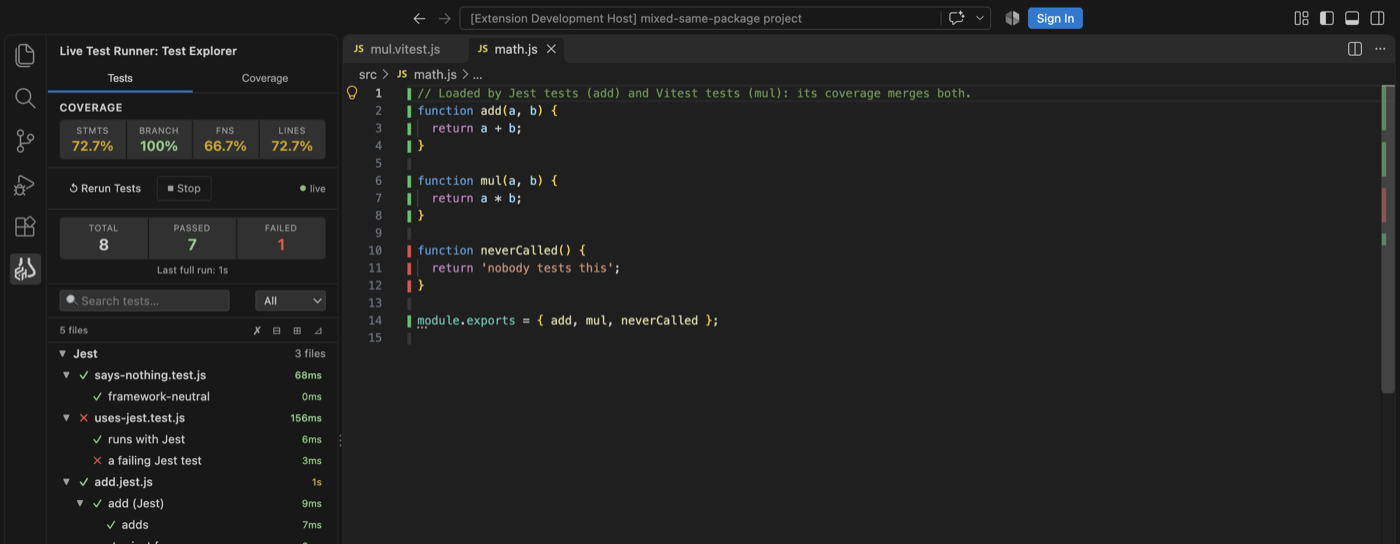
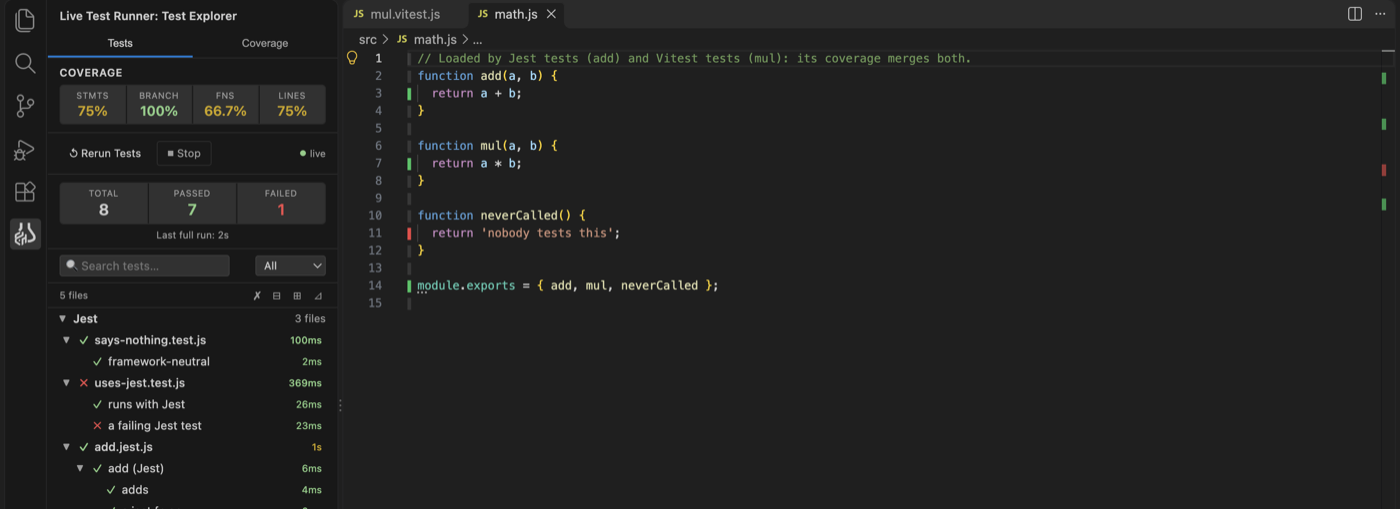
Screenshots without the Extension Development Host title bar

diff --git a/e2e/scenarios/diag-screenshots.js b/e2e/scenarios/diag-screenshots.js
@@ -43,12 +43,12 @@ module.exports = {
       const doc = await vscode.workspace.openTextDocument(path.join(workspace, 'src', 'mul.vitest.js'));
       await vscode.window.showTextDocument(doc, { preview: false });
       await vscode.commands.executeCommand('workbench.view.extension.liveTestRunnerContainer');
-      await shot('mixed-explorer', { x: 0, y: 0, width: 760, height: 900 });
+      await shot('mixed-explorer', { x: 0, y: 36, width: 760, height: 864 });
 
       // 2. The shared source file: coverage from both frameworks.
       const math = await vscode.workspace.openTextDocument(path.join(workspace, 'src', 'math.js'));
       await vscode.window.showTextDocument(math, { preview: false });
-      await shot('mixed-coverage', { x: 0, y: 0, width: 1440, height: 560 });
+      await shot('mixed-coverage', { x: 0, y: 36, width: 1440, height: 524 });
 
     } finally {
       cdp.close();

diff --git a/e2e/lib/devtools.js b/e2e/lib/devtools.js
@@ -25,7 +25,10 @@ async function devtools(port) {
   return { send, close: () => ws.close() };
 }
 
-/** `shot(name, clip?)`: waits for the UI to settle, writes <out>/<name>.png (1440×900 at 2×; `clip` in CSS px). */
+/**
+ * `shot(name, clip?)`: waits for the UI to settle, writes <out>/<name>.png (1440×900 at 2×; `clip` in CSS px).
+ * Clips start at y = 36 to leave out the title bar ("[Extension Development Host]", Sign In).
+ */
 async function shooter(cdp, out, t) {
   fs.mkdirSync(out, { recursive: true });
   await cdp.send('Emulation.setDeviceMetricsOverride', { width: 1440, height: 900, deviceScaleFactor: 2, mobile: false });

diff --git a/e2e/scenarios/diag-screenshots-monorepo.js b/e2e/scenarios/diag-screenshots-monorepo.js
@@ -46,7 +46,7 @@ module.exports = {
       const doc = await vscode.workspace.openTextDocument(path.join(workspace, 'packages', 'shared', 'src', 'new.vitest.js'));
       await vscode.window.showTextDocument(doc, { preview: false });
       await vscode.commands.executeCommand('workbench.action.closeAuxiliaryBar').then(undefined, () => {});
-      await shot('monorepo-switcher', { x: 0, y: 0, width: 760, height: 900 });
+      await shot('monorepo-switcher', { x: 0, y: 36, width: 760, height: 864 });
     } finally {
       cdp.close();
       await vscode.commands.executeCommand('liveTestRunner.stopAllProjects');
